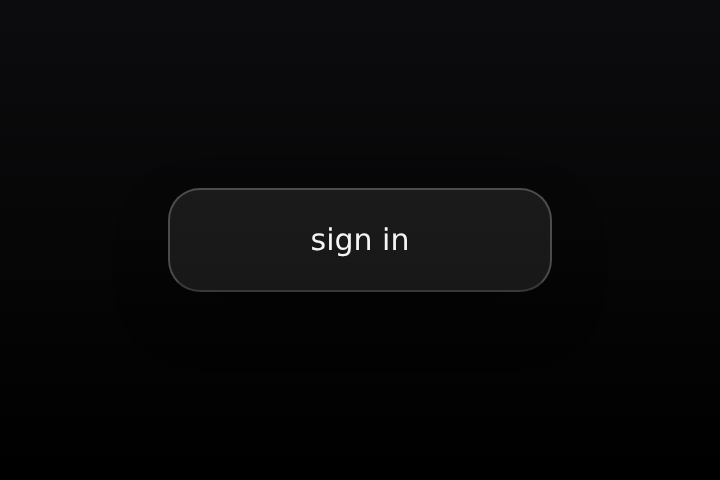
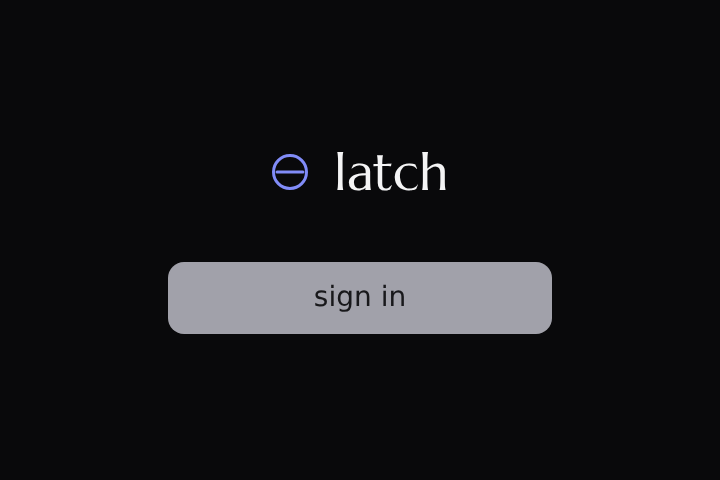
v0.1.1: redesign login page
New look: indigo geometric mark + Marcellus wordmark, neutral zinc-toned
button (zinc-600 / zinc-400). Marcellus is subset to just "latch"'s five
letters (single weight) and inlined as base64 woff2 — no external font
load, ~3 KB on top of the HTML.

diff --git a/src/page.html b/src/page.html
@@ -3,126 +3,88 @@
 <meta name="viewport" content="width=device-width,initial-scale=1,viewport-fit=cover">
 <title>latch</title>
 <style>
+@font-face {
+  font-family: 'Marcellus';
+  font-weight: 400;
+  font-style: normal;
+  font-display: block;
[1 lines of base64/hex data omitted]
+}
 :root {
   color-scheme: light dark;
-  --bg-top: #fbfbfb;
-  --bg-bot: #eeeeee;
-  --fg: #1c1c1e;
-  --soft: rgba(60, 60, 67, 0.6);
-  --glass: rgba(255, 255, 255, 0.7);
-  --hairline-top: rgba(255, 255, 255, 0.6);
-  --hairline-bot: rgba(0, 0, 0, 0.10);
-  --shadow:
-    0 8px 24px -8px rgba(0, 0, 0, 0.10),
-    0 2px 4px -1px rgba(0, 0, 0, 0.05);
-  --shadow-active:
-    0 4px 10px -4px rgba(0, 0, 0, 0.10);
+  --bg: #ffffff;
+  --fg: #18181b;
+  --soft: #71717a;
+  --btn-bg: #52525b;
+  --btn-fg: #fafafa;
+  --btn-bg-hover: #3f3f46;
+  --mark: #6366f1;
 }
 @media (prefers-color-scheme: dark) {
   :root {
-    --bg-top: #0c0c0e;
-    --bg-bot: #000;
-    --fg: #f5f5f7;
-    --soft: rgba(235, 235, 245, 0.55);
-    --glass: rgba(255, 255, 255, 0.08);
-    --hairline-top: rgba(255, 255, 255, 0.22);
-    --hairline-bot: rgba(255, 255, 255, 0.14);
-    --shadow:
-      0 12px 32px -10px rgba(0, 0, 0, 0.5);
-    --shadow-active:
-      0 6px 14px -4px rgba(0, 0, 0, 0.4);
+    --bg: #09090b;
+    --fg: #f4f4f5;
+    --soft: #a1a1aa;
+    --btn-bg: #a1a1aa;
+    --btn-fg: #18181b;
+    --btn-bg-hover: #d4d4d8;
+    --mark: #818cf8;
   }
 }
-
 * { box-sizing: border-box; }
-
-html, body {
-  margin: 0;
-  height: 100dvh;
-}
-
+html, body { margin: 0; height: 100dvh; }
 body {
-  background: linear-gradient(180deg, var(--bg-top), var(--bg-bot));
+  background: var(--bg);
   color: var(--fg);
   font-family: -apple-system, BlinkMacSystemFont, system-ui, sans-serif;
   -webkit-font-smoothing: antialiased;
-  -moz-osx-font-smoothing: grayscale;
-  display: grid;
-  place-items: center;
+  display: flex;
+  flex-direction: column;
+  align-items: center;
+  justify-content: center;
+  gap: 2rem;
   padding: env(safe-area-inset-top) 1.5rem env(safe-area-inset-bottom);
 }
-
-main {
-  display: grid;
-  place-items: center;
-  opacity: 0;
-  transform: translateY(8px);
-  animation: settle 0.7s cubic-bezier(0.16, 1, 0.3, 1) 0.1s forwards;
+.brand { display: flex; align-items: center; gap: 0.75rem; }
+.brand svg { flex-shrink: 0; color: var(--mark); }
+.brand-text {
+  font-family: 'Marcellus', serif;
+  font-size: 1.625rem;
+  font-weight: 400;
+  letter-spacing: 0.005em;
+  line-height: 1;
 }
-
 button {
   font-family: inherit;
-  font-size: 0.9375rem;
-  font-weight: 300;
-  width: 12rem;
-  padding: 1rem 0;
-  background-color: var(--glass);
-  -webkit-backdrop-filter: blur(28px) saturate(1.4);
-          backdrop-filter: blur(28px) saturate(1.4);
-  color: var(--fg);
-  border: 1px solid var(--hairline-top);
-  border-bottom-color: var(--hairline-bot);
-  border-radius: 16px;
+  font-size: 0.875rem;
+  font-weight: 400;
+  background: var(--btn-bg);
+  color: var(--btn-fg);
+  min-width: 12rem;
+  padding: 0.625rem 1.5rem;
+  border: 0;
+  border-radius: 0.5rem;
   cursor: pointer;
   -webkit-tap-highlight-color: transparent;
-  box-shadow: var(--shadow);
-  transition:
-    transform  200ms cubic-bezier(0.16, 1, 0.3, 1),
-    box-shadow 200ms cubic-bezier(0.16, 1, 0.3, 1),
-    opacity    200ms ease;
+  transition: background-color 150ms ease, opacity 200ms ease;
 }
-
-button:disabled {
-  opacity: 0.5;
-  cursor: default;
-}
-
-button:not(:disabled):active {
-  transform: scale(0.97);
-  box-shadow: var(--shadow-active);
-}
-
-p {
-  display: none;
-  margin: 0;
-  font-size: 0.8125rem;
-  font-weight: 400;
-  color: var(--soft);
-  text-align: center;
-}
-
-p:not(:empty) {
-  display: block;
-  margin-top: 0.75rem;
-}
-
-@keyframes settle {
-  to { opacity: 1; transform: translateY(0); }
-}
-
-@media (prefers-reduced-motion: reduce) {
-  main { animation: none; opacity: 1; transform: none; }
-  *, *::before, *::after {
-    transition-duration: 0.01ms !important;
-    animation-duration: 0.01ms !important;
-  }
-}
+button:hover:not(:disabled) { background: var(--btn-bg-hover); }
+button:disabled { opacity: 0.5; cursor: default; }
+#m { display: none; margin: 0; font-size: 0.8125rem; color: var(--soft); text-align: center; }
+#m:not(:empty) { display: block; }
 </style>
 
-<main>
-  <button id=b disabled>sign in</button>
-  <p id=m></p>
-</main>
+<div class="brand">
+  <svg width="20" height="20" viewBox="0 0 20 20" fill="none" aria-hidden="true">
+    <circle cx="10" cy="10" r="8.25" stroke="currentColor" stroke-width="1.5"/>
+    <line x1="3.5" y1="10" x2="16.5" y2="10" stroke="currentColor" stroke-width="1.5" stroke-linecap="round"/>
+  </svg>
+  <span class="brand-text">latch</span>
+</div>
+
+<button id=b disabled>sign in</button>
+
+<p id=m></p>
 
 <script>
 const b=document.getElementById('b'),m=document.getElementById('m');
